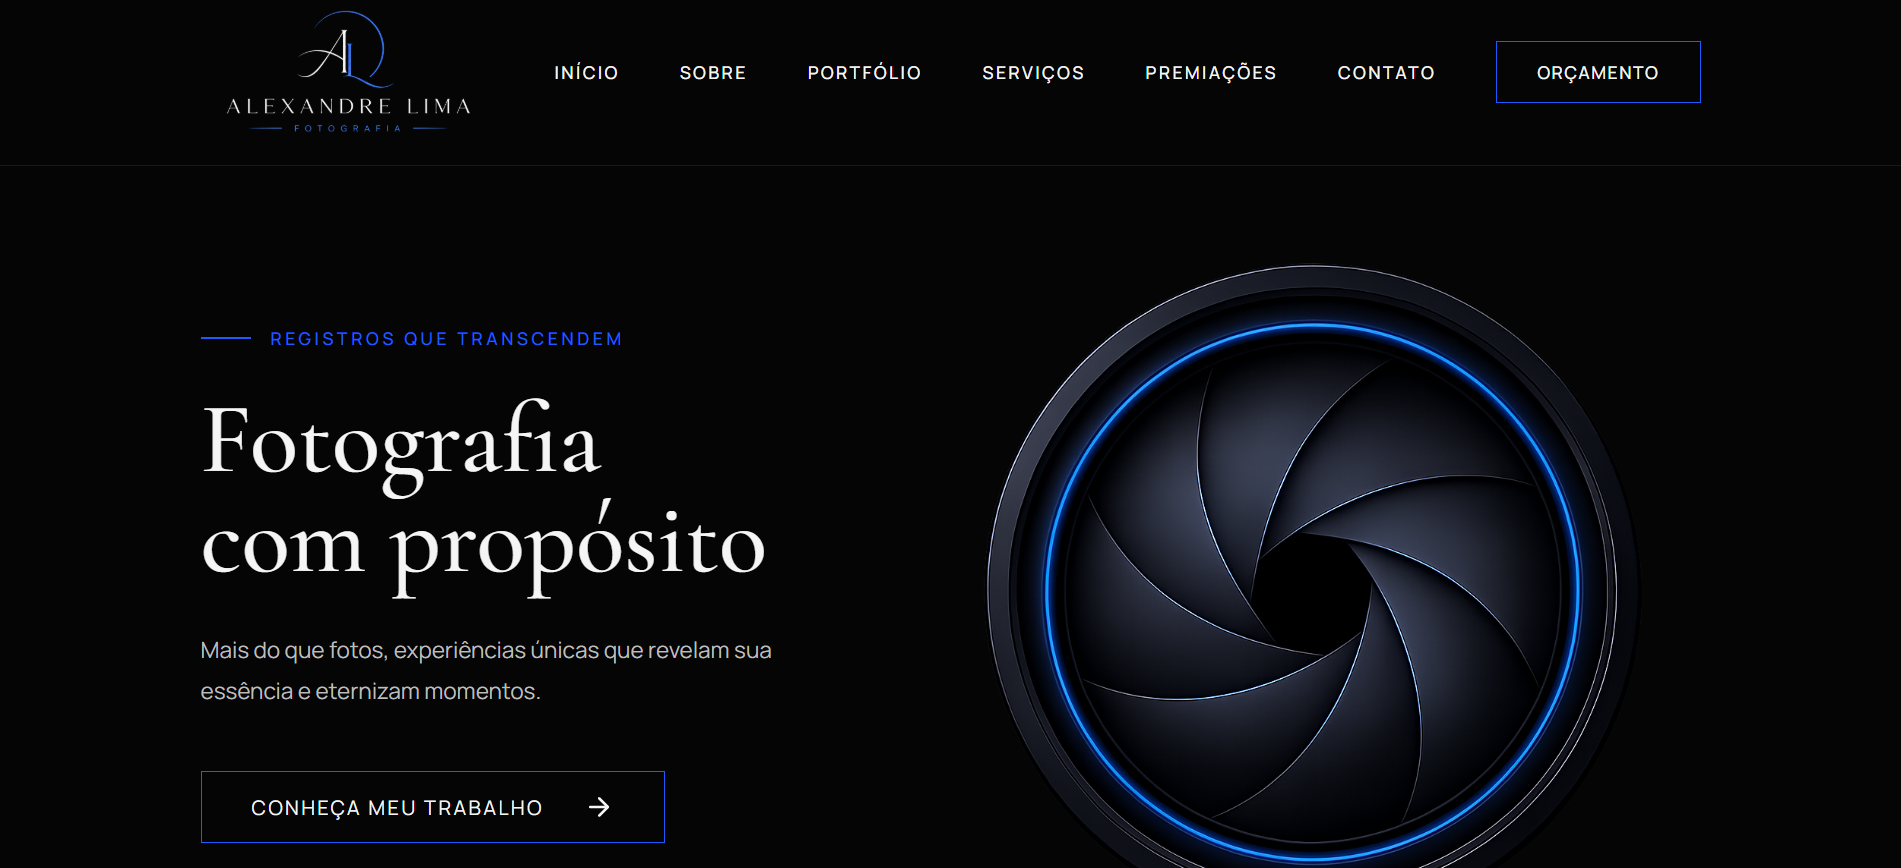
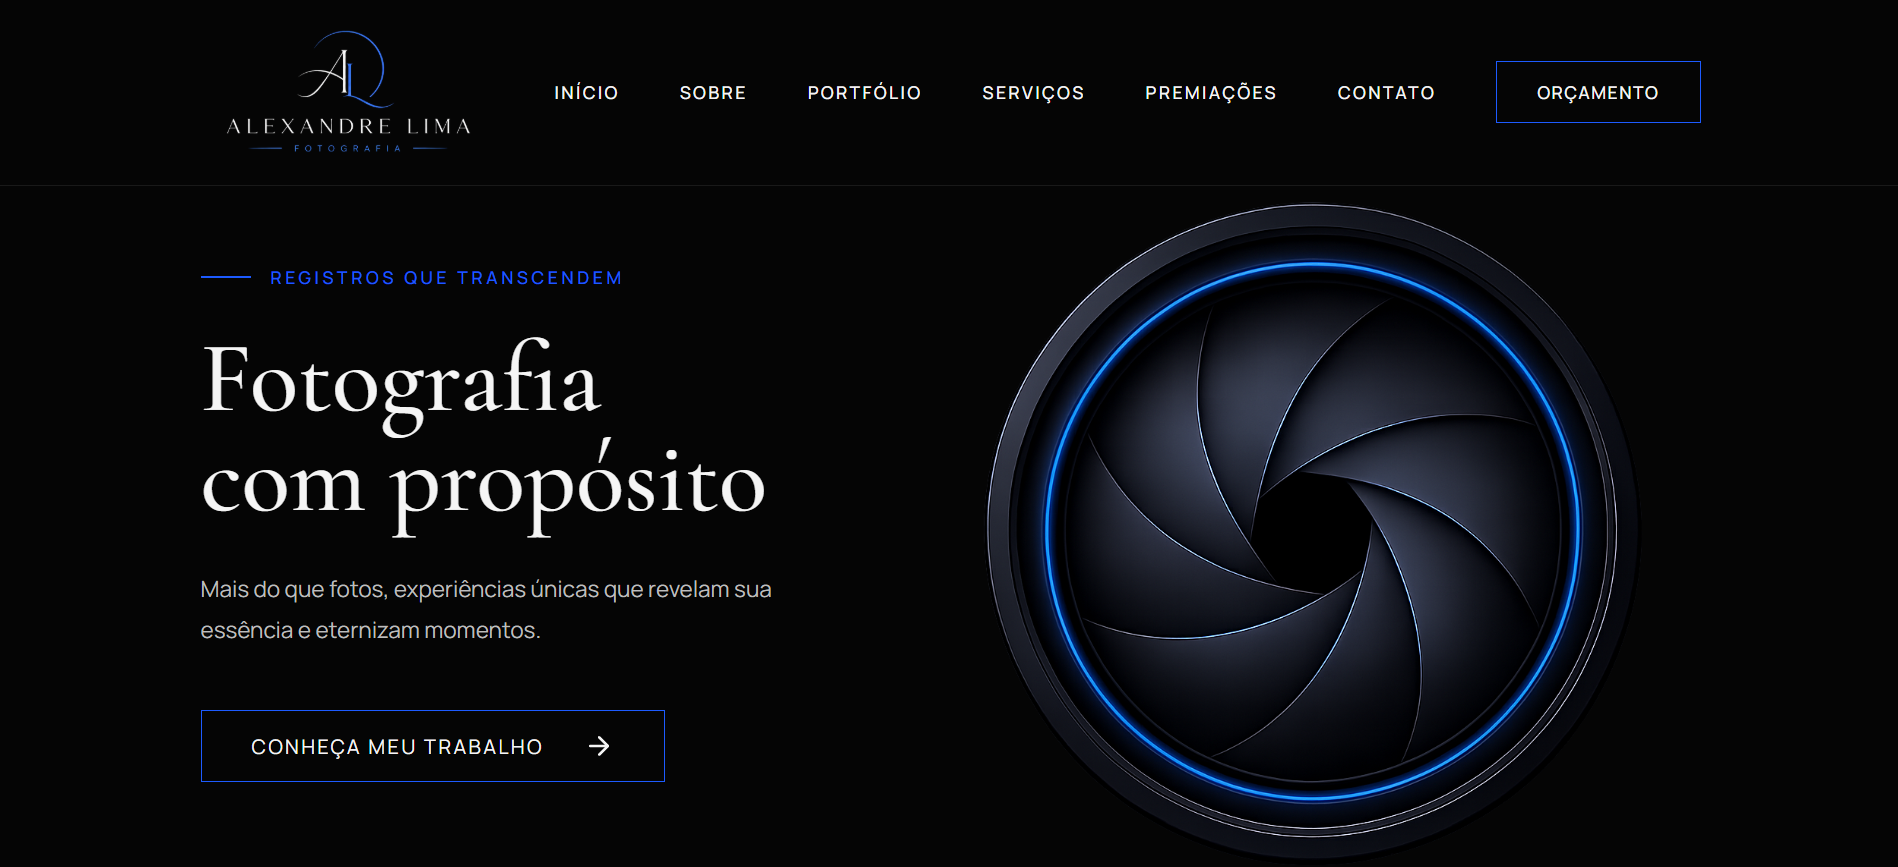
Refine mobile projects carousel

diff --git a/assets/css/style.css b/assets/css/style.css
@@ -263,28 +263,18 @@ body {
     display: none;
     margin-bottom: 2rem;
     text-align: center;
-    font-size: 1.4rem;
+    text-align: center;
+    font-size: 0.95rem;
     font-weight: 500;
     color: var(--text-secondary);
-    animation: swipeHint 1.8s ease-in-out infinite;
+    white-space: nowrap;
+    opacity: 0.8;
 }
 
-@keyframes swipeHint {
-
-    0%,100% {
-        transform: translateX(0);
-    }
-
-    50% {
-        transform: translateX(10px);
-    }
-
-}
 
 /*---------- IMAGEM -----------*/
 
 .project-image {
-    height: 300px;
     background-color: var(--background);
     border-bottom: 1px solid var(--border);
     display: flex;
@@ -294,8 +284,7 @@ body {
 
 .project-image img {
     width: 100%;
-    height: 100%;
-    object-fit: cover;
+    height: auto;
     display: block;
 }
 
@@ -330,7 +319,7 @@ body {
 .browser-mockup img {
     width: 100%;
     height: 100%;
-    object-fit: cover;
+    object-fit: contain;
     display: block;
 }
 

diff --git a/assets/css/responsive.css b/assets/css/responsive.css
@@ -118,7 +118,7 @@
 
     .projects-grid {
         gap: 24px;
-        padding: 1rem 0;
+        padding: 1rem 7.5%;
     }
 
     .projects-hint {
@@ -131,6 +131,11 @@
 
     .project-info {
         padding: 24px;
+    }
+
+    .project-card:hover {
+        transform: none;
+        border-color: var(--border);
     }
 
     
